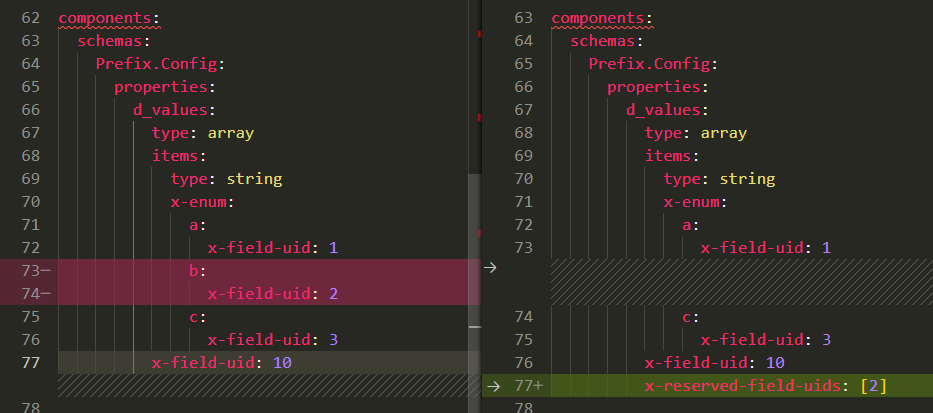
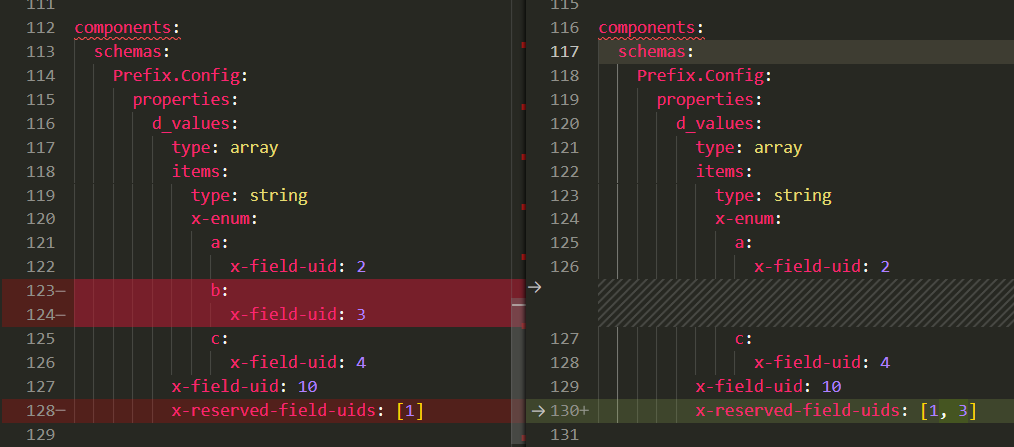
Add comments

Changed region(s): [[0.0, 0.0, 1.0, 1.0], [0.9014, 0.6102, 1.0, 0.7554]]

diff --git a/MODEL-GUIDE.md b/MODEL-GUIDE.md
@@ -58,7 +58,7 @@ This document describes the philosophy and the best practices to be followed whi
 
 * `property names` MUST be snake_case.
 * `schema object names` MUST be PascalCase (upper camel case).
-* `enum names` MUST be lowercase with underscores at natural word breaks.  Valid characters are `^[a-z0-9_]+$`.  Enum names MUST start with an alphabetic character.
+* `x-enum names` MUST be lowercase with underscores at natural word breaks.  Valid characters are `^[a-z0-9_]+$`.  x-enum names MUST start with an alphabetic character.
   * VALID: one_hundred_gbps
   * INVALID: 100_gpbs
 * `namespaces` MUST be PascalCase (upper camel case) and use a `.` separator
@@ -91,7 +91,13 @@ The build script will enforce the following keyword conventions:
         properties:
           choice:
             type: string
-            enum: [a, b, c]
+            x-enum: 
+              a:
+                x-field-uid: 1
+              b:
+                x-field-uid: 2
+              c:
+                x-field-uid: 3
             default: a
           a:
             $ref: '#/components/schemas/Choice.A'
@@ -136,7 +142,15 @@ The build script will enforce the following keyword conventions:
                   - `under-review` indicates that the object or property is subject
                   to change at any time.
                 type: string
-                enum: [current, deprecated, obsolete, under_review]
+                x-enum: 
+                  current:
+                    x-field-uid: 1
+                  deprecated:
+                    x-field-uid: 2
+                  obsolete:
+                    x-field-uid: 3
+                  under_review:
+                    x-field-uid: 4
                 default: current
               additional_information:
                 type: string
@@ -208,12 +222,17 @@ The build script will enforce the following keyword conventions:
         description: >-
           Controls the shape of the generated schema object.
         type: string
-        enum:
-        - mac
-        - ipv4
-        - ipv6
-        - integer
-        - checksum
+        x-enum:
+          mac:
+            x-field-uid: 1
+          ipv4:
+            x-field-uid: 2
+          ipv6:
+            x-field-uid: 3
+          integer:
+            x-field-uid: 4
+          checksum:
+            x-field-uid: 5
     length:
       description: >-
         The length of integer values in bits.
@@ -232,7 +251,13 @@ The build script will enforce the following keyword conventions:
         the bounds of the length property.
     features:
       type: string
-      enum: [count, auto, metric_group]
+      x-enum:
+        count:
+          x-field-uid: 1
+        auto:
+          x-field-uid: 2
+        metric_group:
+          x-field-uid: 3
       description: >-
         count:
         Used to specify whether or not a count property is included in the
@@ -276,7 +301,15 @@ The build script will enforce the following keyword conventions:
       properties:
         choice:
           type: string
-          enum: [value, values, increment, decrement]
+          enum:
+            value:
+              x-field-uid: 1
+            values:
+              x-field-uid: 2
+            increment:
+              x-field-uid: 3
+            decrement:
+              x-field-uid: 4
           default: value
         value:
           type: string
@@ -314,16 +347,16 @@ The build script will enforce the following keyword conventions:
     * Adding a new property 'peer_name' to an existing object.
     * `x-field-uid` must be added with different value (e.g. 2)
 
-    <img src="images/use_case_1.PNG" alt="drawing" width="500"/>
+    <img src="images/use_case_1.PNG" alt="drawing" width="700"/>
 
   * Use-Case : Adding an enum value
     * enum must be replaced with `x-enum` 
     * Adding a new enum `fiber` to the existing property field (`media`)
     * `x-field-uid` must be added with different value (e.g. 2)
     * The bundler will populate `enum` at the time of bundling. So, it will follow OpenAPI standard. 
-    * `x-enum` remain within final yaml file to generate unique proto uid.
+    * `x-enum` will remain within final yaml file to generate unique proto uid.
 
-    <img src="images/use_case_2.PNG" alt="drawing" width="500"/>
+    <img src="images/use_case_2.PNG" alt="drawing" width="700"/>
 
   * Use-Case : Including a Pre-Existing Object
     * `x-include` to include only the field of the property (`..#/components/schemas/GlobalObject/properties/name`)
@@ -331,50 +364,41 @@ The build script will enforce the following keyword conventions:
     * The bundler will correctly merge the `x-include` (e.g. `type` and `pattern`) and drop the `x-include` keyword from the merged object.
     * At the time of merge it will not include base `x-field-uid` `x-field-uid: 2` should present in the derived property.
     
-    <img src="images/use_case_3.PNG" alt="drawing" width="500"/>
+    <img src="images/use_case_3.PNG" alt="drawing" width="800"/>
 
   * Use-Case : Deprecating a Property 
     * Model should maintain `x-field-uid: 1` when property will deprecate 
     * `x-status` must be added with status deprecated
 
-    <img src="images/use_case_4.PNG" alt="drawing" width="500"/>
+    <img src="images/use_case_4.PNG" alt="drawing" width="700"/>
 
   * Use-Case : Removing a Property
-    * User must never use the numbers added in `x-reserved-field-uids` again.
-    * That `x-field-uid` number should include within existing or new `x-reserved-field-uids`
-    * Try to remove `ieee_802_1qbb` which have `x-field-uid: 1`. That number must be included within `x-reserved-field-uids: [1]`
+    * Property must be in deprecated state. Any active property can not remove without deprecation. 
+    * User never use the numbers added in `x-reserved-field-uids` again.
+    * That `x-field-uid` number must be within existing or new `x-reserved-field-uids`
+    * To remove `ieee_802_1qbb` which has `x-field-uid: 1`. That number must be included within `x-reserved-field-uids: [1]`
 
-    <img src="images/use_case_5.PNG" alt="drawing" width="500"/>
+    <img src="images/use_case_5.PNG" alt="drawing" width="700"/>
 
   * Use-Case : Removing an enum value
     * User must never use the numbers added in `x-reserved-field-uids` again.
-    * That `x-field-uid` number should include within existing or new `x-reserved-field-uids`
-    * Removing property `b` which have `x-field-uid: 2`. That number must be included within `x-reserved-field-uids: [2]`
+    * That `x-field-uid` number must be included within existing or new `x-reserved-field-uids`
+    * Removing property `b` which has `x-field-uid: 2`. That number must be included within `x-reserved-field-uids: [2]`
   
-    <img src="images/use_case_6.PNG" alt="drawing" width="500"/>
+    <img src="images/use_case_6.PNG" alt="drawing" width="700"/>
 
   * Use-Case : Removing a Pre-Existing Object
     * Remove the exiting 'Prefix.Config' object.
     * All the properties and field within that object must be removed.
 
-    <img src="images/use_case_7.PNG" alt="drawing" width="500"/>
+    <img src="images/use_case_7.PNG" alt="drawing" width="700"/>
 
   * Use-Case : Adding / Removing a Response Field 
     * Adding a new response `400` in the exiting responses. New unique `x-field-uid: 3` is assigned.
     * User must not use the field UID present within `x-reserved-field-uids: [2]`
     * That reserved field UID (e.g. 2) used by other property which was removed.
 
-    <img src="images/use_case_8.PNG" alt="drawing" width="500"/>
-
-  * x-reserved-field-uids
-
-    * When a property/response is removed, the `x-field-uid` assigned to that property/response is included in the list of `x-reserved-field-uids` so that those values are never ever re-used.
-    * Use-Case : Removing a Property
-      * User must never use the numbers added in `x-reserved-field-uids` again.
-      * That `x-field-uid` number should include within existing or new `x-reserved-field-uids`
-      * Try to remove `ieee_802_1qbb` which have `x-field-uid: 1`. That number must be included within `x-reserved-field-uids: [1]`
-
-      <img src="images/use_case_5.PNG" alt="drawing" width="500"/>
+    <img src="images/use_case_8.PNG" alt="drawing" width="800"/>
     
 ### Descriptions
 
